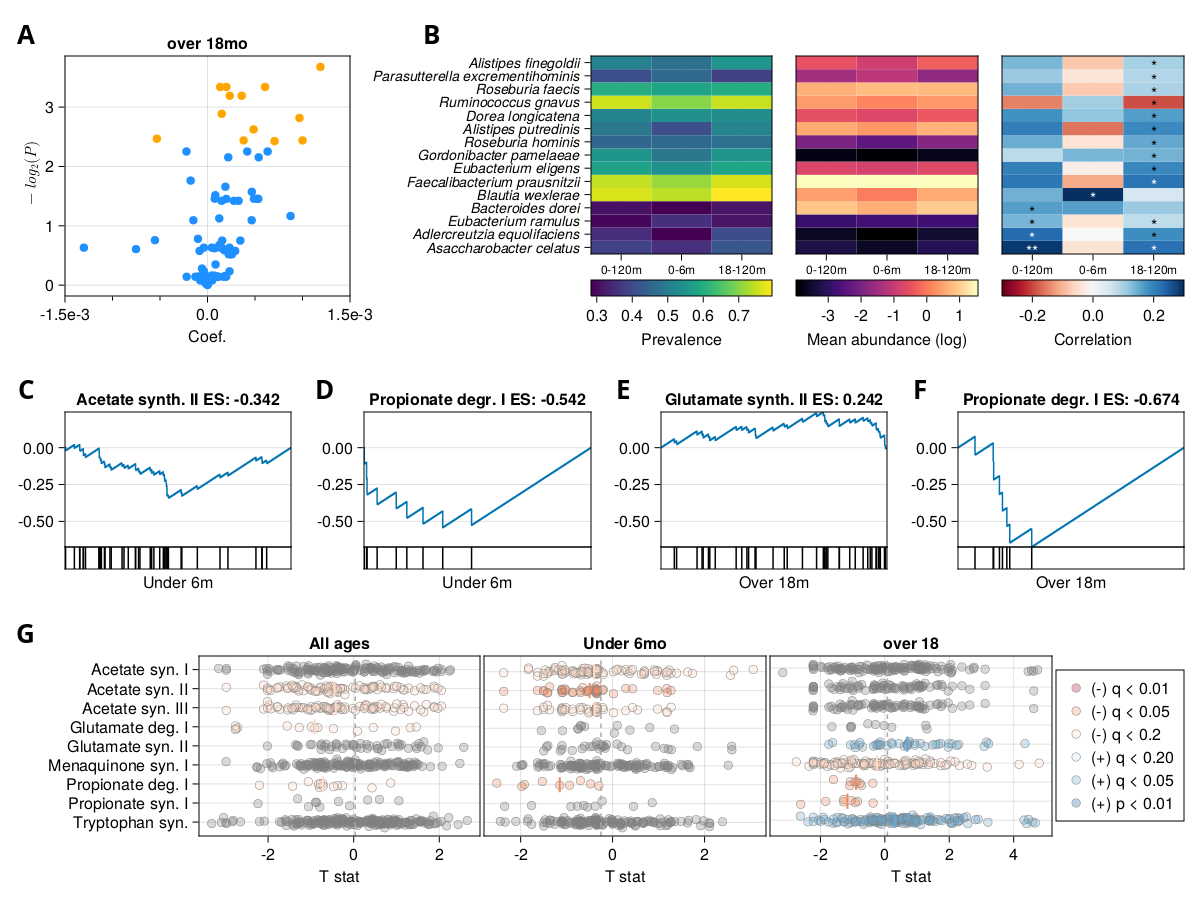
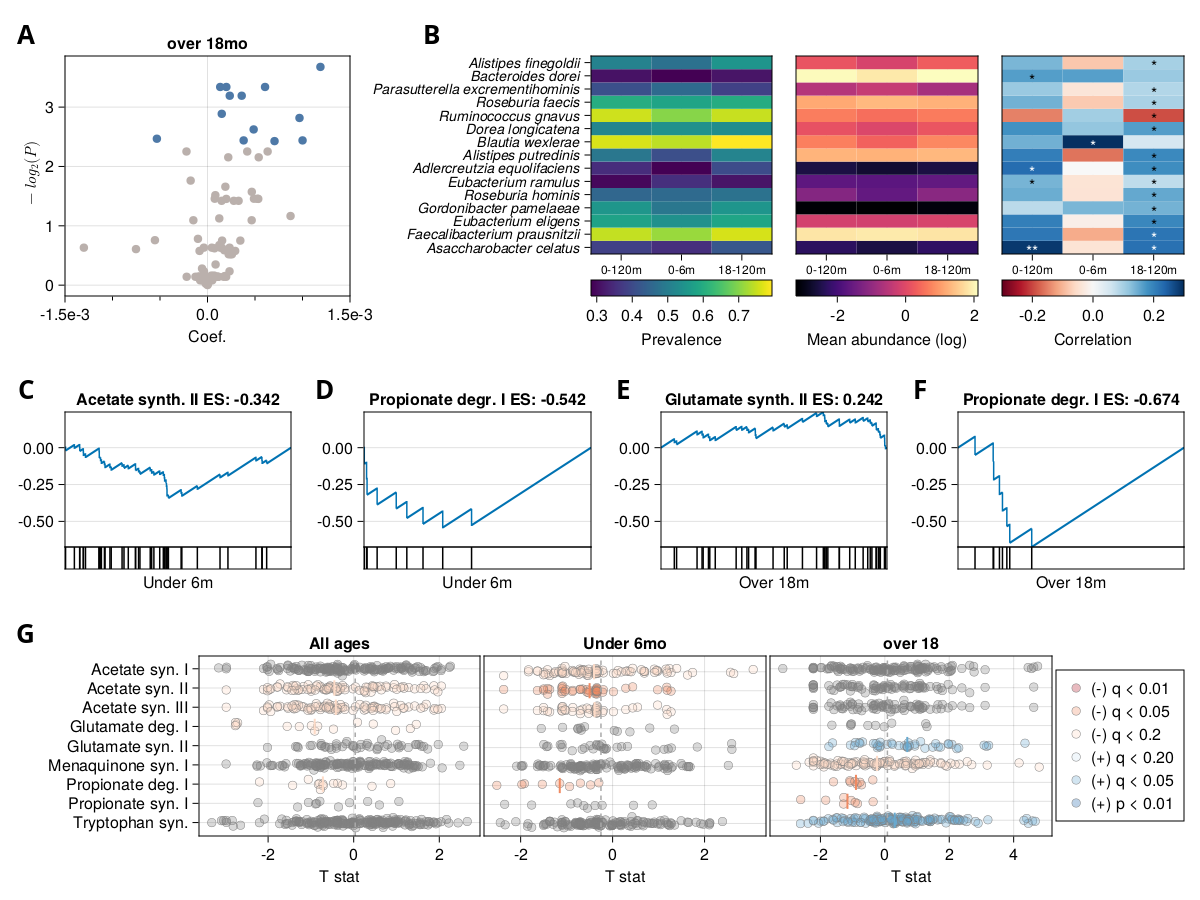
sort 2B by qvalue, do mean non-zero abundance

diff --git a/manuscript/Figure2.md b/manuscript/Figure2.md
@@ -57,6 +57,7 @@ lms_mat = let
     df = vcat(speclms_00to120, speclms_00to06, speclms_18to120)
     df.group = [fill("00to120", nrow(speclms_00to120)); fill("00to06", nrow(speclms_00to06)); fill("18to120", nrow(speclms_18to120))]
     sigs = subset(df, "qvalue"=> ByRow(<(0.2)))
+    sort!(sigs, :qvalue)
     sig_feats = unique(sigs.feature)
     gdf = groupby(df, ["feature", "group"])
     DataFrame(ThreadsX.map(eachindex(sig_feats)) do i
@@ -69,15 +70,15 @@ lms_mat = let
         corr_18to120 = cor(taxdf[taxdf.filter_18to120, "cogScore"], taxdf[taxdf.filter_18to120, ft])
         (; feature = ft, 
            prev_00to120 = only(prevalence(taxa[Regex(ft), mdata.filter_00to120])),
-           meanab_00to120 = mean(abundances(taxa[Regex(ft), mdata.filter_00to120])),
+           meanab_00to120 = mean(filter(>(0), abundances(taxa[Regex(ft), mdata.filter_00to120]))),
            corr_00to120,
            q_00to120,
            prev_00to06 = only(prevalence(taxa[Regex(ft), mdata.filter_00to06])),
-           meanab_00to06 = mean(abundances(taxa[Regex(ft), mdata.filter_00to06])),
+           meanab_00to06 = mean(filter(>(0), abundances(taxa[Regex(ft), mdata.filter_00to06]))),
            corr_00to06,
            q_00to06, 
            prev_18to120 = only(prevalence(taxa[Regex(ft), mdata.filter_18to120])),
-           meanab_18to120 = mean(abundances(taxa[Regex(ft), mdata.filter_18to120])),
+           meanab_18to120 = mean(filter(>(0), abundances(taxa[Regex(ft), mdata.filter_18to120]))),
            corr_18to120,
            q_18to120,
         )
@@ -106,7 +107,7 @@ aax = Axis(AB[1,1]; title = "over 18mo", ylabel=L"$-log_2(P)$", xlabel = "Coef."
                 xminorticksvisible=true, xminorticks = IntervalsBetween(3))
 
 scatter!(aax, speclms_18to120.coef, -1 .* log2.(speclms_18to120.qvalue);
-    color = map(q-> q < 0.2 ? :orange : :dodgerblue, speclms_18to120.qvalue))
+    color = map(q-> q < 0.2 ? 1 : 10, speclms_18to120.qvalue), colormap=:tableau_10)
 ```
 ```julia
 B = GridLayout(AB[1, 2:3])
